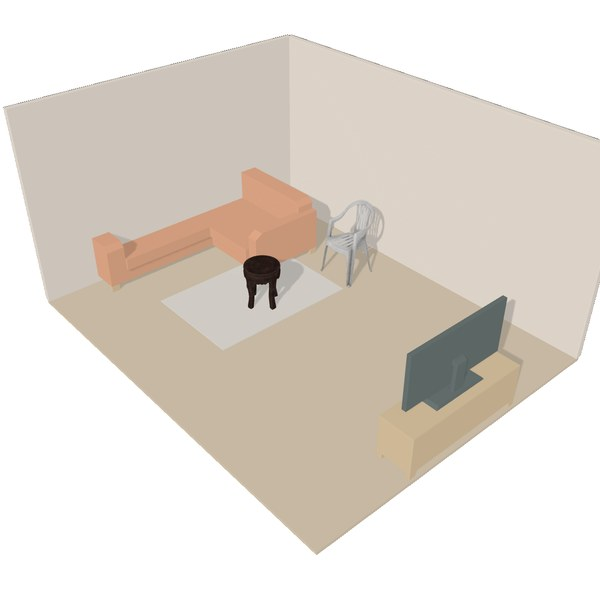
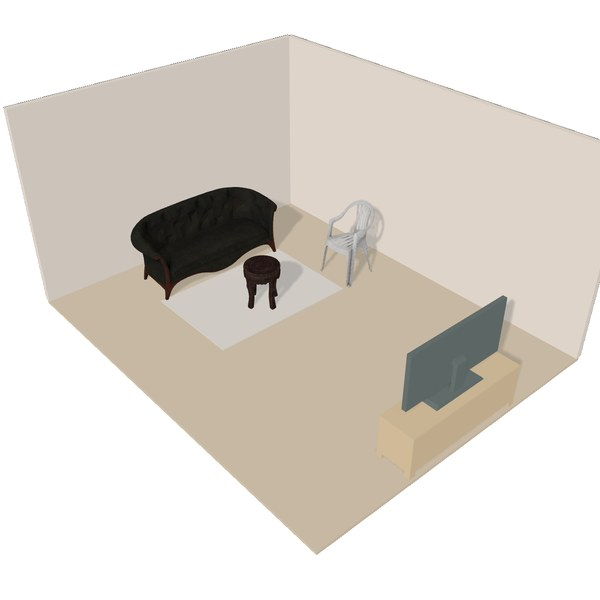
fix(backend): render room thumbnails from deployed picks, one storage scan per placeholder run, correct scan rooms

Changed region(s): [[0.15, 0.27, 0.57, 0.51]]

diff --git a/convex/seed.ts b/convex/seed.ts
@@ -1,5 +1,5 @@
 import { v } from "convex/values";
-import { internalMutation, internalQuery, type QueryCtx } from "./_generated/server";
+import { internalMutation, internalQuery } from "./_generated/server";
 import type { Doc, Id } from "./_generated/dataModel";
 import sampleRoom from "../Interest/Shared/SampleRoom.json";
 import * as data from "./seedData";
@@ -171,8 +171,8 @@ export const run = internalMutation({
 // vendorUrl, a product's previous seeded name, and a seeded room's product pick that the earlier rule
 // made but that does not fit its spot. Anything the app or a person changed stays as it is.
 export const correctSeeded = internalMutation({
-  args: {},
-  handler: async (ctx) => {
+  args: { scan: v.optional(v.any()) },
+  handler: async (ctx, { scan }) => {
     const corrected: string[] = [];
     const products: Doc<"products">[] = [];
     for (const p of data.products) {
@@ -191,26 +191,30 @@ export const correctSeeded = internalMutation({
       products.push(doc);
     }
 
-    const template = roomTemplate(undefined);
-    for (const [i, r] of data.rooms.entries()) {
-      const room = await ctx.db
-        .query("rooms")
-        .withIndex("by_slug", (q) => q.eq("slug", r.slug))
-        .unique();
-      if (!room) continue;
-      let changed = false;
-      const placements = room.placements.map((placement) => {
-        const seeded = template.placements.find((t) => t.id === placement.id);
-        if (!seeded || placement.category !== seeded.category) return placement;
-        const before = pick(products, seeded.category, seeded.scannedSize, i, false);
-        if (!before || placement.productId !== before._id || fitsSpot(before, seeded.scannedSize)) return placement;
-        const after = pick(products, seeded.category, seeded.scannedSize, i, true);
-        if (!after) return placement;
-        changed = true;
-        corrected.push(`${r.slug}/${placement.id}: ${before.slug} → ${after.slug}`);
-        return { ...placement, productId: after._id as string };
-      });
-      if (changed) await ctx.db.patch(room._id, { placements });
+    const templates = [{ suffix: "", template: roomTemplate(undefined) }];
+    const scanned = roomTemplate(scan);
+    if (scanned.fromScan) templates.push({ suffix: "-scan", template: scanned });
+    for (const { suffix, template } of templates) {
+      for (const [i, r] of data.rooms.entries()) {
+        const room = await ctx.db
+          .query("rooms")
+          .withIndex("by_slug", (q) => q.eq("slug", r.slug + suffix))
+          .unique();
+        if (!room) continue;
+        let changed = false;
+        const placements = room.placements.map((placement) => {
+          const seeded = template.placements.find((t) => t.id === placement.id);
+          if (!seeded || placement.category !== seeded.category) return placement;
+          const before = pick(products, seeded.category, seeded.scannedSize, i, false);
+          if (!before || placement.productId !== before._id || fitsSpot(before, seeded.scannedSize)) return placement;
+          const after = pick(products, seeded.category, seeded.scannedSize, i, true);
+          if (!after) return placement;
+          changed = true;
+          corrected.push(`${room.slug}/${placement.id}: ${before.slug} → ${after.slug}`);
+          return { ...placement, productId: after._id as string };
+        });
+        if (changed) await ctx.db.patch(room._id, { placements });
+      }
     }
     return corrected;
   },
@@ -249,40 +253,67 @@ export const attachFile = internalMutation({
   },
 });
 
-async function currentFile(ctx: QueryCtx, url: unknown) {
-  if (typeof url !== "string") return null;
-  for (const file of await ctx.db.system.query("_storage").collect()) {
-    if ((await ctx.storage.getUrl(file._id)) === url) return file;
-  }
-  return null;
-}
-
-// sha256 (base64) of the file the field currently points at, or null when it is empty or not one of ours.
-export const fileHash = internalQuery({
-  args: fileArgs,
-  handler: async (ctx, { table, slug, field }) => {
-    const doc = await ctx.db
-      .query(table)
-      .withIndex("by_slug", (q) => q.eq("slug", slug))
-      .unique();
-    return (await currentFile(ctx, doc && (doc as Record<string, unknown>)[field]))?.sha256 ?? null;
+// For each target, the URL its field holds and the sha256 (base64) of that file, or null when the field
+// is empty or does not point at one of our files. The storage table is read once for all targets.
+export const fileHashes = internalQuery({
+  args: { targets: v.array(v.object(fileArgs)) },
+  handler: async (ctx, { targets }) => {
+    const hashes = new Map<string, string>();
+    for (const file of await ctx.db.system.query("_storage").collect()) {
+      const url = await ctx.storage.getUrl(file._id);
+      if (url) hashes.set(url, file.sha256);
+    }
+    const out = [];
+    for (const { table, slug, field } of targets) {
+      const doc = await ctx.db
+        .query(table)
+        .withIndex("by_slug", (q) => q.eq("slug", slug))
+        .unique();
+      const url = doc && (doc as Record<string, unknown>)[field];
+      out.push(typeof url === "string" ? { url, sha256: hashes.get(url) ?? null } : { url: null, sha256: null });
+    }
+    return out;
   },
 });
 
-// Replaces a seeded file only while the field still points at one of our own placeholder files
-// (matched by content hash); anything the app or a person set is left alone. Nothing is deleted.
+// Replaces a seeded file only while the field still holds expectedUrl, the placeholder URL that
+// seed:fileHashes matched by content hash; anything the app or a person set since is left alone. Nothing is deleted.
 export const replacePlaceholder = internalMutation({
-  args: { ...fileArgs, storageId: v.id("_storage"), placeholderHashes: v.array(v.string()) },
-  handler: async (ctx, { table, slug, field, storageId, placeholderHashes }) => {
+  args: { ...fileArgs, storageId: v.id("_storage"), expectedUrl: v.string() },
+  handler: async (ctx, { table, slug, field, storageId, expectedUrl }) => {
     const doc = await ctx.db
       .query(table)
       .withIndex("by_slug", (q) => q.eq("slug", slug))
       .unique();
-    const current = await currentFile(ctx, doc && (doc as Record<string, unknown>)[field]);
     const url = await ctx.storage.getUrl(storageId);
-    if (!doc || !current || !url || !placeholderHashes.includes(current.sha256)) return null;
+    if (!doc || !url || (doc as Record<string, unknown>)[field] !== expectedUrl) return null;
     await ctx.db.patch(doc._id, { [field]: url });
     return url;
+  },
+});
+
+// Each seeded room's placements with the slug of the product placed there, so seed/render_thumbs.py
+// renders the rooms as they are deployed.
+export const roomPicks = internalQuery({
+  args: {},
+  handler: async (ctx) => {
+    const slugs = new Map((await ctx.db.query("products").collect()).map((p) => [p._id as string, p.slug]));
+    const rooms = [];
+    for (const r of data.rooms) {
+      for (const slug of [r.slug, `${r.slug}-scan`]) {
+        const room = await ctx.db
+          .query("rooms")
+          .withIndex("by_slug", (q) => q.eq("slug", slug))
+          .unique();
+        if (!room) continue;
+        rooms.push({
+          slug,
+          shell: room.shell,
+          placements: room.placements.map((p) => ({ transform: p.transform, product: (p.productId && slugs.get(p.productId)) ?? null })),
+        });
+      }
+    }
+    return rooms;
   },
 });
 

diff --git a/seed/render_thumbs.py b/seed/render_thumbs.py
@@ -1,7 +1,7 @@
 #!/usr/bin/env python3
-# Renders seed/thumbs/*.jpg from seed/models/*.usdz and the seeded rooms (SampleRoom.json shell).
+# Renders seed/thumbs/*.jpg from seed/models/*.usdz and the seeded rooms as deployed (seed:roomPicks).
 # Needs: pip install usd-core pyrender trimesh pillow 'numpy<2' 'scipy<1.14' PyOpenGL==3.1.7; run with PYOPENGL_PLATFORM=egl.
-import io, json, os, sys, zipfile
+import io, json, os, subprocess, sys, zipfile
 import numpy as np
 np.infty = np.inf
 from PIL import Image
@@ -155,20 +155,17 @@ ROOM_STYLES = [
 ]
 
 
-def seed_data():
-    src = open(os.path.join(REPO, "convex", "seedData.ts")).read()
-    import re
-    products = [dict(slug=m[0], category=m[1], size=[float(x) for x in m[2].split(",")])
-                for m in re.findall(r'slug: "([^"]+)".*?category: "([^"]+)".*?size: \[([^\]]+)\]', src)]
-    rooms = re.findall(r'\{ slug: "([^"]+)", title:', src)
-    return products, rooms
+def room_picks():
+    # The seeded rooms as deployed (seed:roomPicks), so each thumbnail shows the products the room really holds.
+    # CONVEX_RUN_FLAGS go to npx convex run, e.g. CONVEX_RUN_FLAGS=--prod.
+    cmd = ["npx", "convex", "run", *os.environ.get("CONVEX_RUN_FLAGS", "").split(), "seed:roomPicks"]
+    return json.loads(subprocess.run(cmd, cwd=REPO, check=True, capture_output=True, text=True).stdout)
 
 
 def room_thumbs(renderer):
-    products, rooms = seed_data()
-    room = json.load(open(os.path.join(REPO, "Interest", "Shared", "SampleRoom.json")))
     meshes = {}
-    for i, slug in enumerate(rooms):
+    for i, room in enumerate(r for r in room_picks() if not r["slug"].endswith("-scan")):
+        slug = room["slug"]
         wall_c, floor_c, (sx, sz) = ROOM_STYLES[i % len(ROOM_STYLES)]
         scene = pyrender.Scene(bg_color=[1, 1, 1, 1], ambient_light=[0.5, 0.5, 0.5])
         eye = np.array([4.9 * sx, 5.6, 5.6 * sz])
@@ -190,13 +187,9 @@ def room_thumbs(renderer):
         rug = box([1.9, 0.01, 1.3], [0, 0.005, 0], (1.0, 0.4, 0.0) if i % 3 == 0 else (0.9, 0.87, 0.82) if i % 3 == 1 else (0.55, 0.6, 0.62))
         scene.add(rug, pose=tf([1,0,0,0,0,1,0,0,0,0,1,0,0,0,-0.9,1]))
         for p in room["placements"]:
-            s = p.get("scannedSize")
-            cands = [q for q in products if q["category"] == p["category"]]
-            if s:
-                cands.sort(key=lambda q: abs(q["size"][0] - s["width"]) + abs(q["size"][1] - s["depth"]) + abs(q["size"][2] - s["height"]))
-            if not cands:
+            prod = p["product"]
+            if not prod:
                 continue
-            prod = cands[i % len(cands)]["slug"]
             if prod not in meshes:
                 meshes[prod] = load_usdz(os.path.join(MODELS, prod + ".usdz"))
             scene.add(meshes[prod], pose=tf(p["transform"]))
